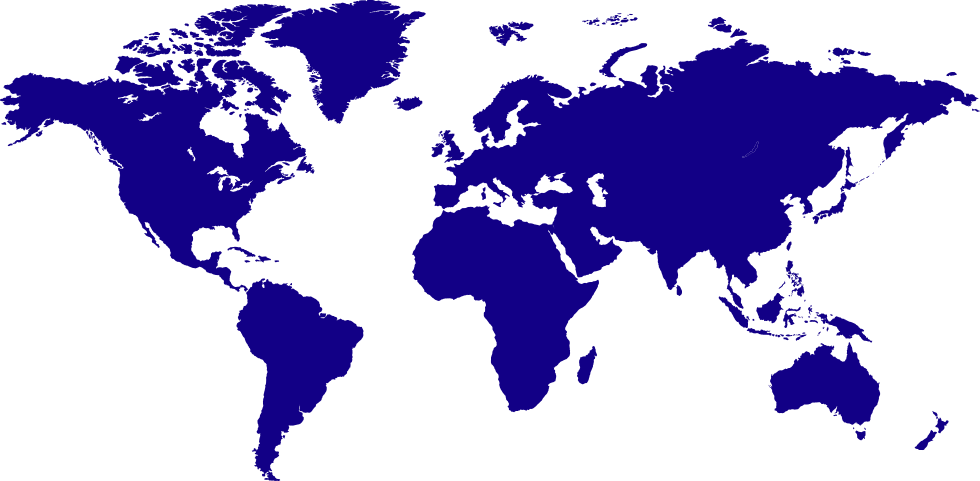
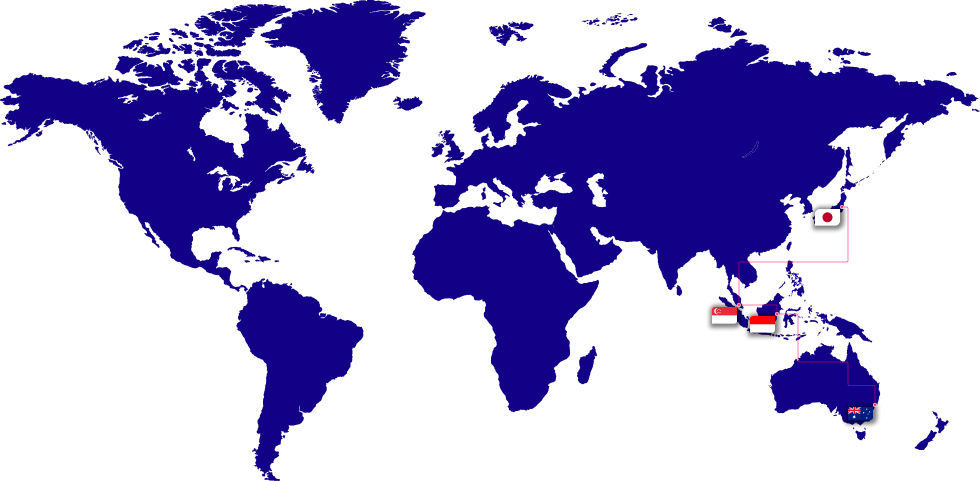
update

diff --git a/domain/index.html b/domain/index.html
@@ -133,7 +133,7 @@
                         <div class="banner-section-content" data-aos="fade-up">
                             <h1 data-aos="fade-up">Search & Register <span>Domain</span> For Your Website</h1>
                             <p class="pp" data-aos="fade-right">Your domain helps people find you online and makes a first impression. Find one that represents you perfectly.</p>
-                            <form action="http://akdesigner.com/whmcs-templates/cart.php?systpl=hostiko&amp;a=add&amp;domain=register&amp;query=azcasd" method="POST">
+                            <form action=" " method="POST">
                                 <div class="form-row">
                                     <div class="col-lg-12 col-md-12 col-sm-12 col-xs-12">
                                         <input type="text" name="dname" id="domainname" class="form-control" placeholder="Search domain name...">
@@ -258,7 +258,7 @@
                 <div class="col-lg-12 col-md-12 col-sm-12 col-xs-12">
                     <div class="register_reasons_content">
                         <h2>3 Reasons to Register Today</h2>
-                        <p>Choose Hostiko and get...</p>
+                        <p>Choose NexoVa and get...</p>
                     </div>
                 </div>
             </div>
@@ -715,7 +715,7 @@
                 <div class="row">
                     <div class="col-lg-7 col-md-8 col-sm-12 col-xs-12">
                         <div class="build_website_content">
-                            <h2>Build Your Website with <span>Hostiko</span></h2>
+                            <h2>Build Your Website with <span>NexoVa</span></h2>
                             <p>From professional business to enterprise, we’ve got you covered!</p>
                             <figure class="build_website_blue_line mb-0">
                                 <img src="../assets/images/build_website_blue_line.png" alt="" class="img-fluid">
@@ -869,6 +869,4 @@
 <script src="../assets/js/vps_slider_setting.js"></script>
 <script src="../assets/js/vps_slider.js"></script>
 </body>
-
-<!-- Mirrored from html.designingmedia.com/Hostiko/Item-WP-48/../domain by HTTrack Website Copier/3.x [XR&CO'2014], Fri, 01 Sep 2023 12:25:57 GMT -->
 </html>

diff --git a/index.html b/index.html
@@ -609,7 +609,7 @@
                         <figure class="mb-0">
                             <img src="assets/images/center_location_image.png" alt="" class="img-fluid">
                         </figure>
-                        <div class="point indonesian tippy">
+                        <!-- <div class="point indonesian tippy">
                             <div class="location">Indonesian</div>
                         </div>
                         <div class="point germany tippy">
@@ -632,7 +632,7 @@
                         </div>
                         <div class="point sydney tippy">
                             <div class="location">Sydney</div>
-                        </div>
+                        </div> -->
                     </div>
                 </div>
             </div>
